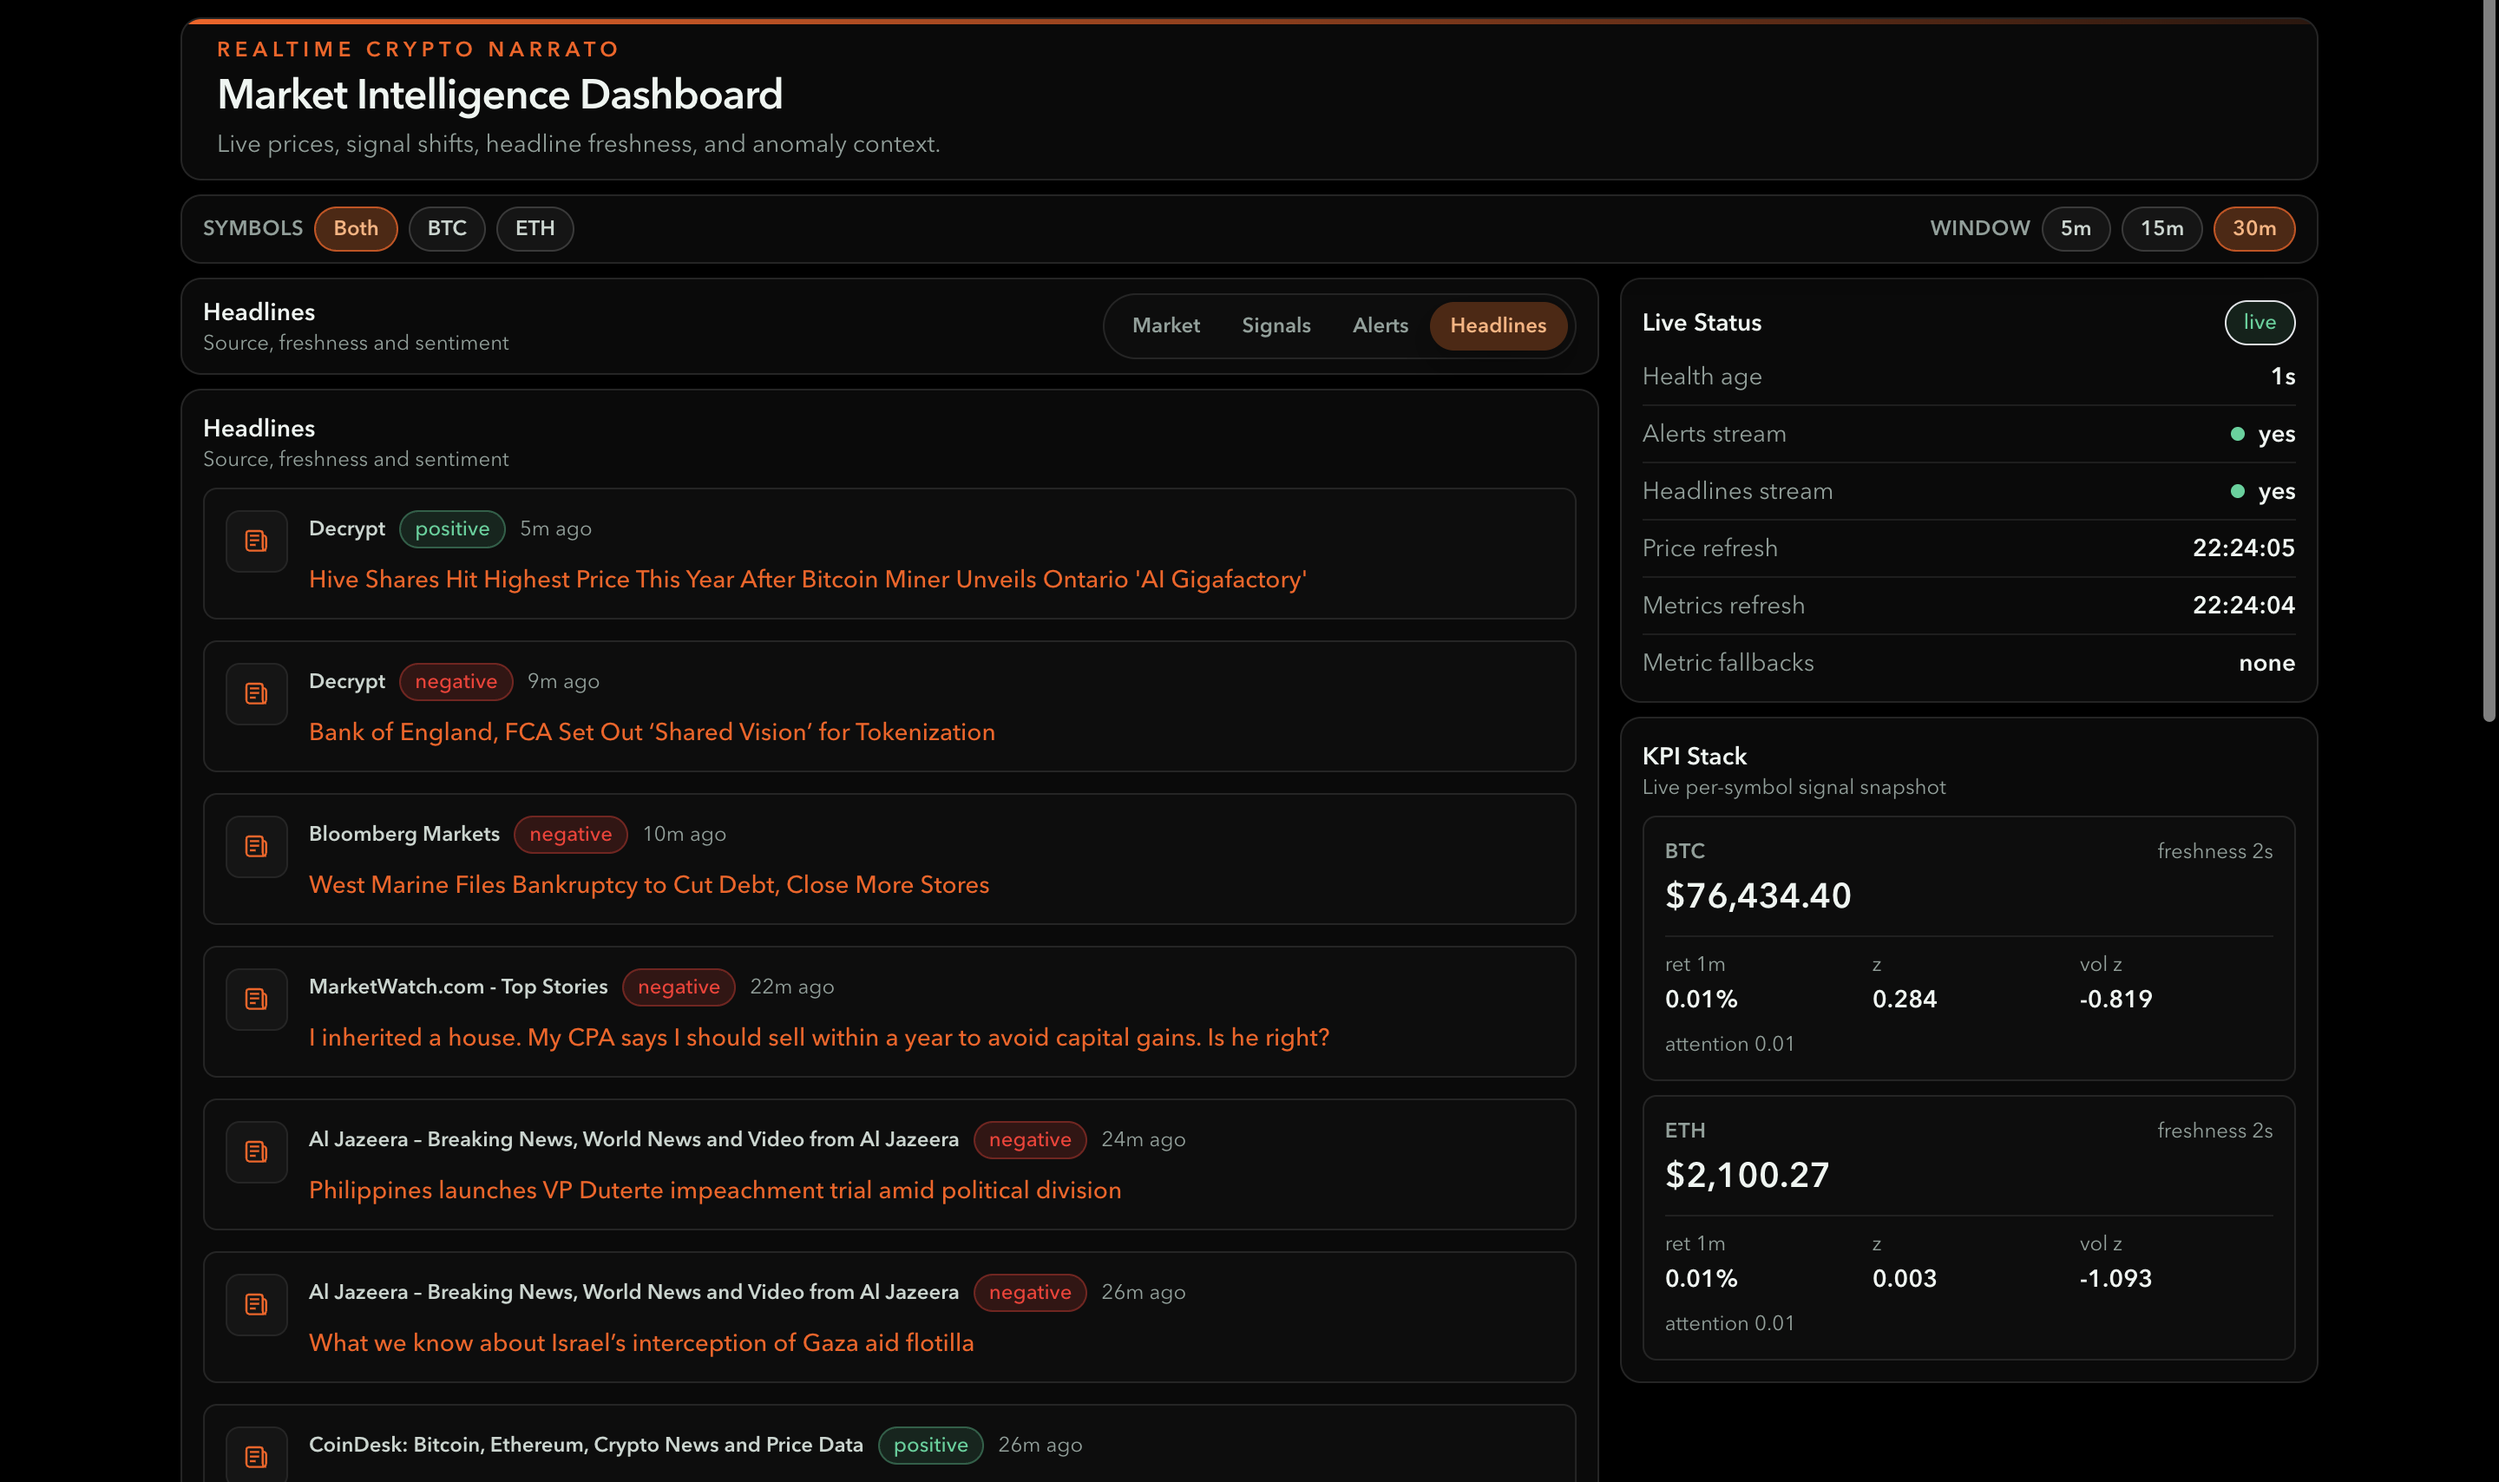
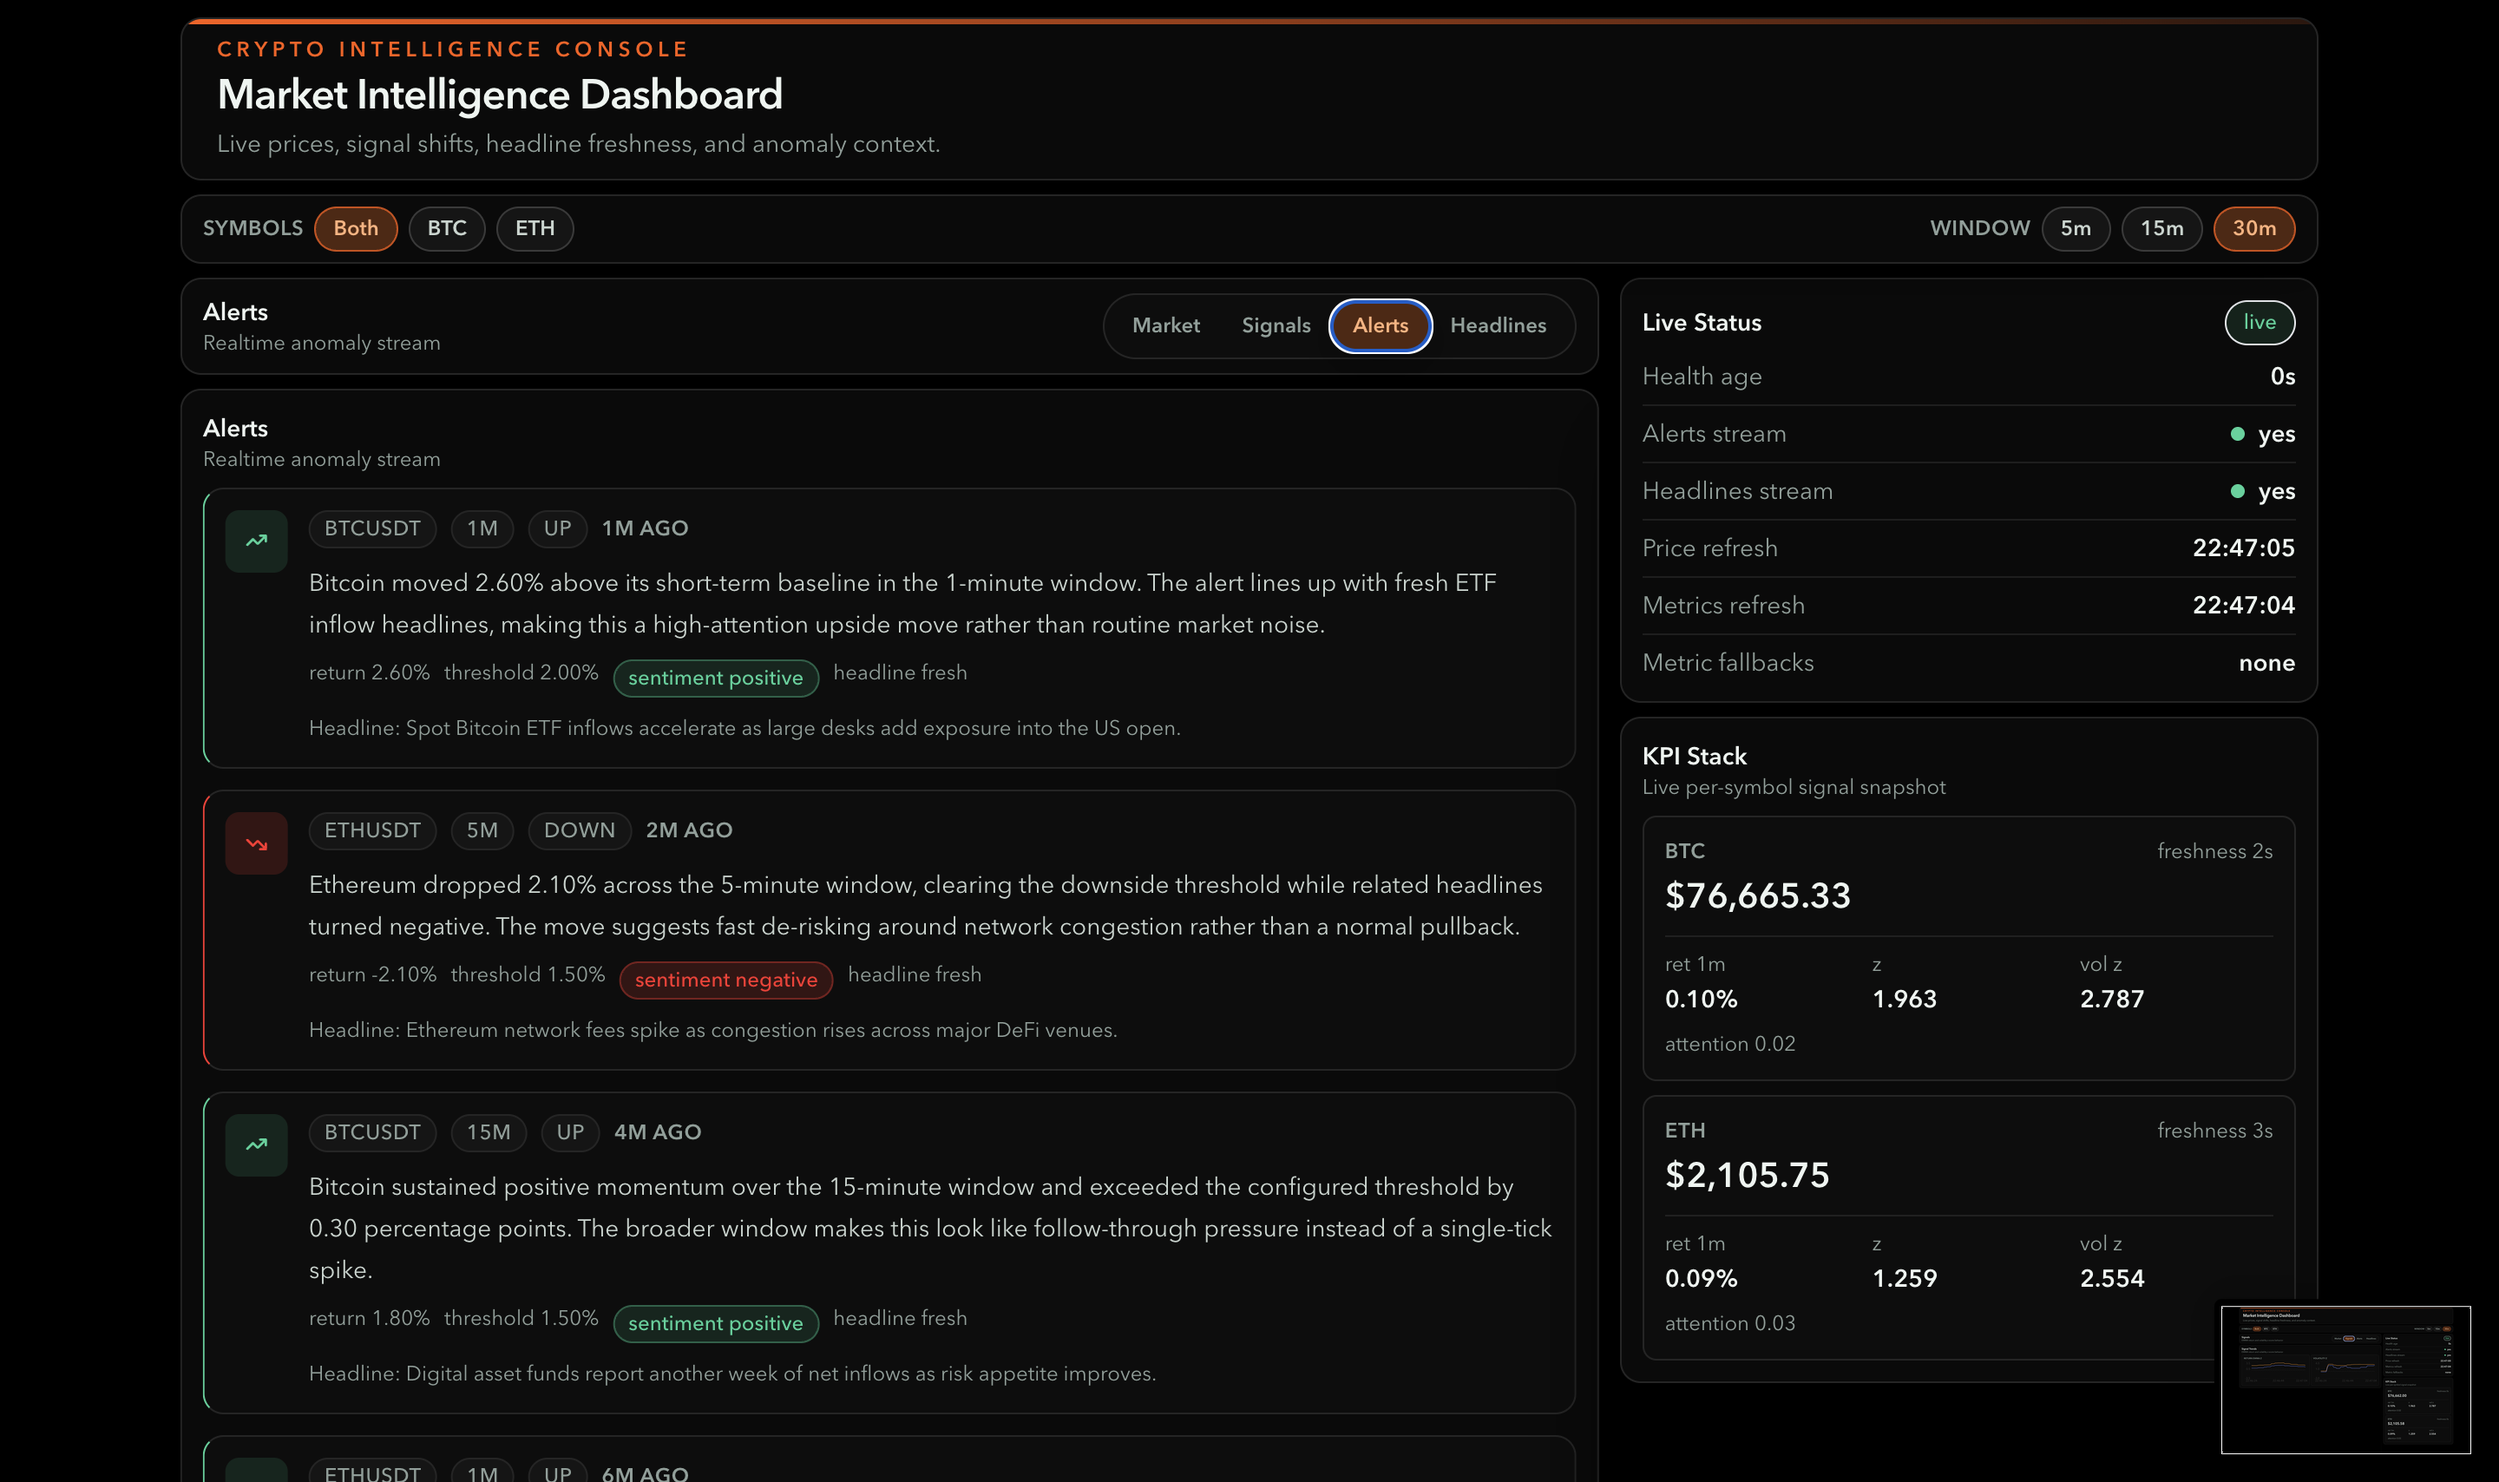
docs: refresh readme screenshots

diff --git a/frontend/src/app/dashboard-page.tsx b/frontend/src/app/dashboard-page.tsx
@@ -42,7 +42,7 @@ export function DashboardPage() {
   return (
     <main className="app-frame">
       <header className="dashboard-console-header">
-        <p className="dashboard-eyebrow">Realtime Crypto Narrato</p>
+        <p className="dashboard-eyebrow">Crypto Intelligence Console</p>
         <div className="dashboard-console-copy mt-0.5">
           <div>
             <h1 className="dashboard-title">Market Intelligence Dashboard</h1>

diff --git a/frontend/index.html b/frontend/index.html
@@ -3,7 +3,7 @@
   <head>
     <meta charset="UTF-8" />
     <meta name="viewport" content="width=device-width, initial-scale=1.0" />
-    <title>Realtime Crypto Narrato</title>
+    <title>Crypto Intelligence Console</title>
   </head>
   <body>
     <div id="root"></div>

diff --git a/README.md b/README.md
@@ -138,6 +138,10 @@ Dashboard overview:
 
 ![Dashboard overview](docs/assets/dashboard-overview.png)
 
+Signal trends:
+
+![Signal trends](docs/assets/signals.png)
+
 Alerts feed:
 
 ![Alerts feed](docs/assets/alerts-feed.png)
